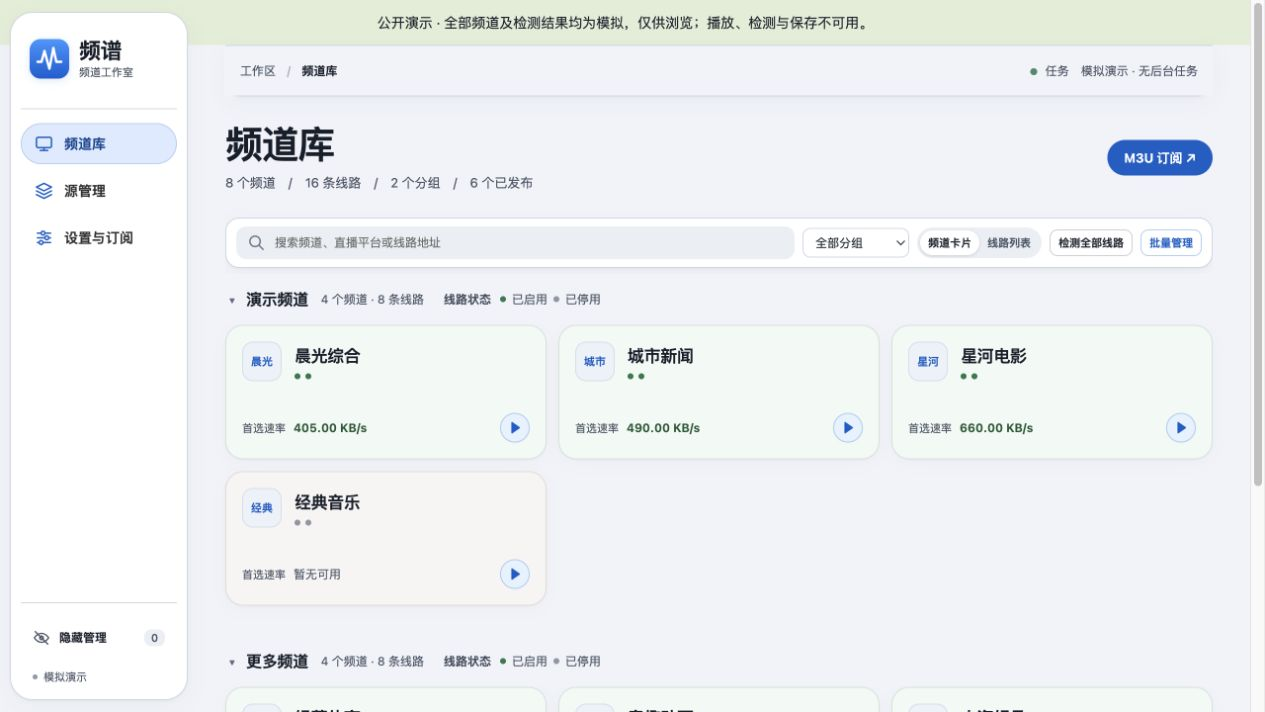
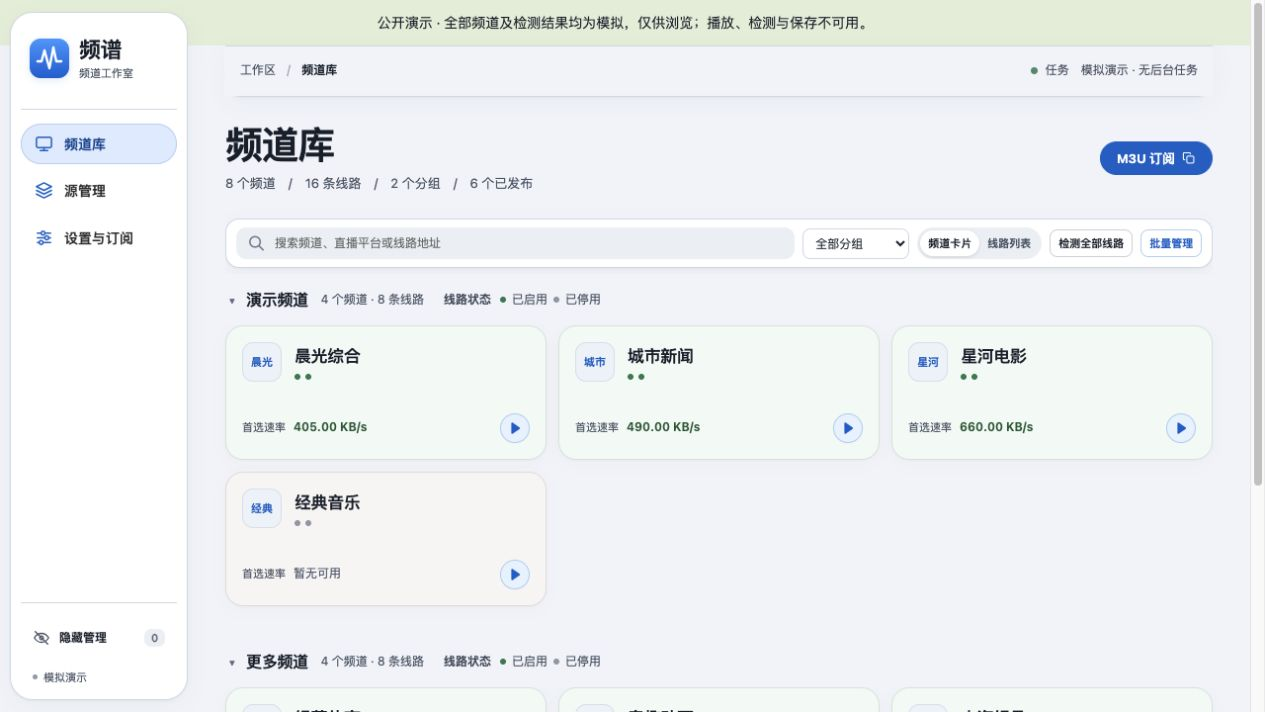
发布 v1.1.3：M3U 订阅入口改为一键复制

diff --git a/style.css b/style.css
@@ -85,7 +85,7 @@ main{margin-left:var(--rail);max-width:1580px;min-width:0;padding:0 clamp(16px,3
 #task{font-size:12px;color:#585f71;padding:0;max-width:65%;text-align:right;overflow-wrap:anywhere}#task:before{background:#4a9476}
 main>section{border:0;background:transparent;padding:0}
 .page-heading{display:flex;align-items:center;justify-content:space-between;gap:14px;margin:26px 0 21px}.page-heading h1{font-size:clamp(25px,2.4vw,37px);line-height:1.22;letter-spacing:-.045em;margin:0 0 6px}.page-heading>div>span,#resultCount{font-size:12px;color:var(--muted)}
-.subscribe{display:inline-block;text-decoration:none;background:var(--accent);border:1px solid var(--accent);border-radius:8px;color:white;padding:7px 12px;font-weight:650;font-size:13px}.subscribe:hover{background:var(--accent-hover)}
+.subscribe{display:inline-flex;align-items:center;gap:7px;white-space:nowrap;flex-shrink:0;text-decoration:none;background:var(--accent);border:1px solid var(--accent);border-radius:8px;color:white;padding:7px 12px;font-weight:650;font-size:13px}.subscribe:hover{background:var(--accent-hover);border-color:var(--accent-hover);color:white}
 .control-deck{border:1px solid var(--line);border-radius:16px;box-shadow:var(--panel-shadow);background:white}
 .find-row,.filters{display:flex;align-items:center;gap:10px;flex-wrap:wrap}.find-row{padding:13px 15px}.search-box{margin:0;position:relative;flex:1 1 210px}.search-box svg{position:absolute;left:11px;top:50%;transform:translateY(-50%);color:#7d8094}.search-box input[type=search]{width:100%;margin:0;padding:8px 12px 8px 38px;background:#f8f8fb;border-color:#dedfe9;border-radius:7px}
 .find-row select{max-width:100%;width:145px;border-color:var(--line);color:var(--ink)}
@@ -631,3 +631,5 @@ body{background:var(--canvas)}
  #playerDialog .player-line-control{max-width:52%;flex-basis:190px}
  #playerLine{font-size:12px;padding-inline:6px}
 }
+
+.subscribe svg{width:14px;height:14px;flex:none;fill:none;stroke:currentColor;stroke-width:1.5;stroke-linecap:round;stroke-linejoin:round}

diff --git a/ui.js b/ui.js
@@ -59,7 +59,7 @@ function applyHelp(root=document){
   ['[data-address],[data-hidden-address]','展开完整直播地址，可选中复制。'],
   ['[data-guide]','查看此频道已匹配的节目单。'],
   ['.feed-guides summary','查看直播清单内附带的节目单地址，更新订阅时会一并获取。'],
-  ['.export-list a[href="/live.m3u"],.subscribe','打开 M3U 文本；把同一地址填入播放器即可订阅。'],
+  ['.export-list a[href="/live.m3u"]','打开 M3U 文本；把同一地址填入播放器即可订阅。'],
   ['.export-list a[href="/live.txt"]','以 TXT 格式发布频道及多条线路。'],
   ['.export-list a[href="/live.json"]','查看结构化频道和线路数据，供其他工具读取。'],
   ['.export-list a[href="/guide.xml"]','打开 XMLTV 节目单，供播放器匹配节目。']
@@ -1354,6 +1354,24 @@ $('schedule').onsubmit=safely(async e=>{
    if(!settingsDirty)$('saveStatus').textContent='设置已保存';
  }finally{button.disabled=false;}
 });
+function setupSubscriptionShare(){
+ const button=$('copySubscription');
+ const url=new URL(button.dataset.path,location.href).href;
+ button.title='复制 M3U 订阅地址：'+url;
+ button.onclick=safely(async()=>{
+  let copied=false;
+  try{await navigator.clipboard.writeText(url);copied=true;}catch{}
+  if(!copied){
+   const field=document.createElement('textarea');field.value=url;field.readOnly=true;
+   field.style.cssText='position:fixed;left:-9999px;top:0;font-size:16px';
+   document.body.append(field);
+   try{field.select();field.setSelectionRange(0,url.length);copied=document.execCommand('copy');}
+   catch{}finally{field.remove();button.focus({preventScroll:true});}
+  }
+  notice(copied?'订阅地址已复制':'复制未完成，可在设置与订阅中长按 M3U 清单复制链接');
+ });
+}
+setupSubscriptionShare();
 document.querySelector('[data-tab="channels"]').classList.add('active');
 async function poll(){
  try{await status();}catch(e){notice(e.message);}

diff --git a/index.html b/index.html
@@ -12,7 +12,7 @@
 <main id="workspace" tabindex="-1">
 <div class="workspace-bar"><span>工作区 <i>/</i> <strong id="pageLabel">频道库</strong></span><div class="task-actions"><div id="task" role="status"><span id="taskMessage">正在读取工作区…</span><span id="taskChannels"></span><span id="taskProgress"></span></div><button type="button" data-stop-current hidden title="跳过当前线路，保留上次检测结果，继续检测下一条。">跳过此线路</button><button type="button" data-stop-all hidden title="停止当前检测和余下队列，保留已经完成的结果。">终止整批</button></div></div>
 <section id="channels" class="studio-shell">
-  <div class="page-heading"><div><h1>频道库</h1><span id="librarySummary"></span></div><a class="subscribe" href="/live.m3u" target="_blank" rel="noopener">M3U 订阅 ↗</a></div>
+  <div class="page-heading"><div><h1>频道库</h1><span id="librarySummary"></span></div><button id="copySubscription" class="subscribe" aria-label="复制 M3U 订阅地址" type="button" data-path="./live.m3u"><span>M3U 订阅</span><svg viewBox="0 0 20 20" aria-hidden="true"><rect x="7" y="7" width="10" height="10" rx="2"/><path d="M12 4V3a1 1 0 0 0-1-1H3a1 1 0 0 0-1 1v8a1 1 0 0 0 1 1h1"/></svg></button></div>
   <div class="catalog-tools" id="catalogTools"><div class="control-deck">
     <div class="find-row"><label class="search-box"><svg viewBox="0 0 20 20" aria-hidden="true"><circle cx="8.5" cy="8.5" r="5.5"/><path d="m13 13 4 4"/></svg><input id="query" type="search" placeholder="搜索频道、直播平台或线路地址" aria-label="搜索频道、直播平台或线路地址"></label>
     <select id="group" aria-label="筛选分组"><option value="">全部分组</option></select>

diff --git a/docs/release-notes-v1.1.3.md b/docs/release-notes-v1.1.3.md
@@ -1,0 +1,25 @@
+# 频谱 IPTV Studio v1.1.3
+
+恢复频道库原有的 M3U 订阅入口，以一键复制替代跳转，便于把地址粘贴到电视或播放器。
+
+## 更新内容
+
+- 保留频道库标题右侧的“M3U 订阅”文字和蓝色圆角样式，跳转箭头替换为复制图标。
+- 点击直接复制当前访问地址对应的 M3U 链接，不打开新页面；兼容域名、局域网 HTTP 和子路径部署。
+- 兼容剪贴板不可用或权限被拒绝的情况，失败时提供替代复制方式，不误报成功。
+- 保留键盘操作、辅助名称和明确的复制反馈；恢复原工具栏布局，移除中间设计的无用样式。
+- 不引入新的运行依赖。ZIP 与 Docker 镜像继续通过白名单只包含运行组件及必要许可，排除本地配置、数据库、日志、研究和测试材料。
+
+## 部署与升级
+
+镜像：`talktoo/iptv-studio:v1.1.3`，同步更新 `latest`；平台为 **linux/amd64**。旧版本 Release 和版本镜像均保留。
+
+使用仓库 Compose，执行 `docker compose pull` 和 `docker compose up -d`。升级前停止旧实例并备份数据目录，继续挂载原数据卷，不要同时启动两个实例访问同一数据库。默认上海时区，无需设置 TZ。
+
+进入频道库，点击 **M3U 订阅**，将复制的地址粘贴到播放器。发行 ZIP 附固定版本 Compose 和 SHA256SUMS。
+
+## 验证
+
+推送前检查复制行为、脚本语法、演示构建及运行包内容。远端发布流程执行全部隔离回归和镜像启动、时区、日志、解码、非 root 进程及重启数据保留验证，通过后发布。发布完成后再运行一轮完整回归。
+
+在线 Demo 仅含虚构数据，不连接真实直播源。此版不改变线路检测标准，不宣称检测速度或准确率提升。

diff --git a/docs/dockerhub.md b/docs/dockerhub.md
@@ -20,7 +20,7 @@ docker compose pull
 docker compose up -d
 ```
 
-打开 **`http://服务器局域网IP:8787`**，在「源管理」添加 M3U / TXT 直播订阅；需要节目单时添加 XMLTV。随后检测线路、调整启停，并将订阅地址填入播放器。
+打开 **`http://服务器局域网IP:8787`**，在「源管理」添加 M3U / TXT 直播订阅；需要节目单时添加 XMLTV。随后检测线路、调整启停，在频道库点击“M3U 订阅”复制地址并填入播放器。
 
 ## 数据与端口
 
